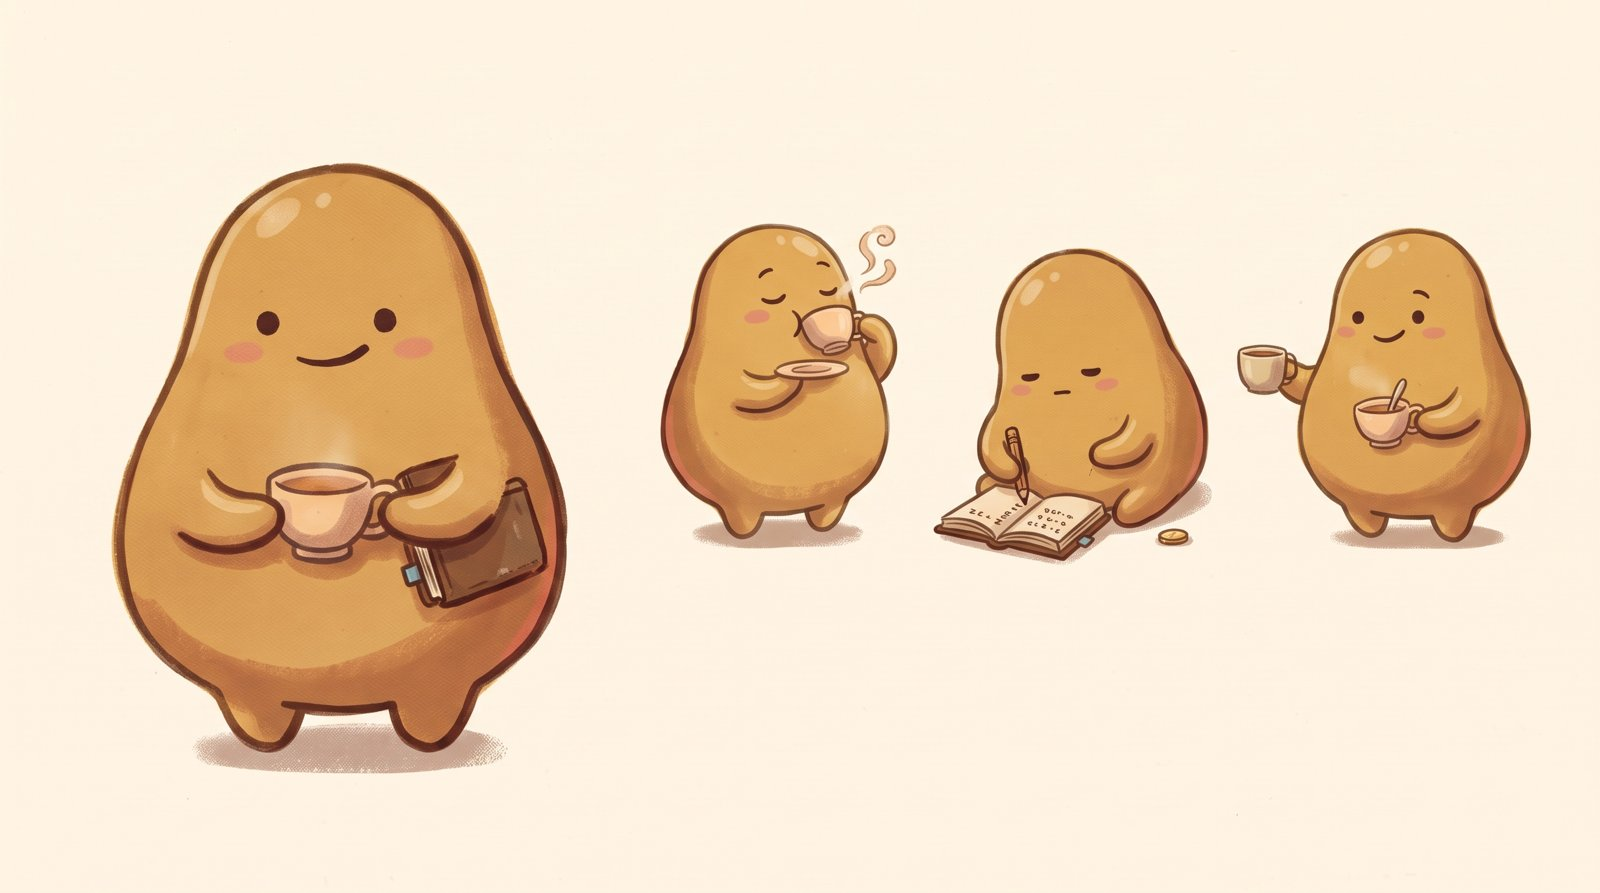
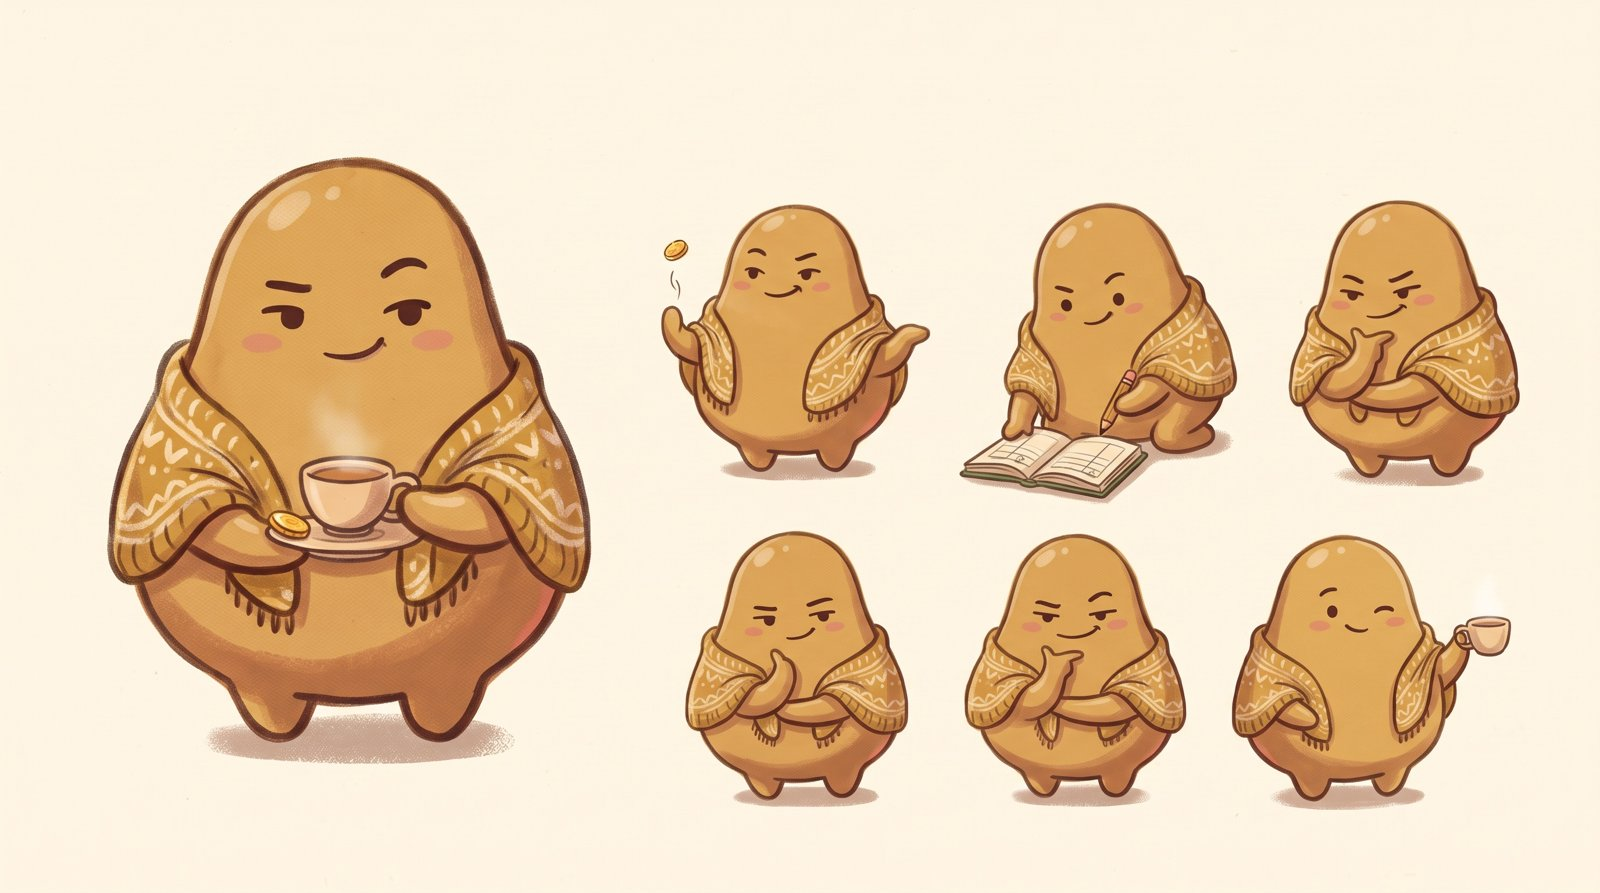
Cast: Ines with more personality, Theo with two arms, afternoon studio preferred
Claude-Session: https://claude.ai/code/session_013ka3w6JBUeEVjTQYpDR1yA

Changed region(s): [[0.4062, 0.2116, 0.9688, 0.9071], [0.0625, 0.1512, 0.375, 0.8768]]

diff --git a/design/studio/cast/CAST.md b/design/studio/cast/CAST.md
@@ -6,13 +6,15 @@ No pronouns, as the vision asks.
 
 | | Mika · Design | Noor · Research | Theo · Data | Ines · Strategy | Bo · Engineering |
 |---|---|---|---|---|---|
-| Shape | Tall, wobbly teardrop, ink blue | Perfectly round, terracotta, round glasses | Small, neat, upright, sage | Wide, grounded pear, gold ochre | Chunky soft loaf, butter yellow, half-lidded eyes |
-| Personality | Quick, playful, restless; always doodling | Curious, careful, warm; a source for every claim | Calm, precise, quiet, tidy; one number that says it worked | Confident, kind, grounded; who pays and why now | Chill, unbothered, dependable; boring, correct, shipped |
-| Prop | Stubby yellow pencil and a small sketchbook | Book bristling with sticky tabs, magnifying glass | A card with one bar; tally counter on the hip | Teacup and saucer; small leather ledger | Big coffee mug; tiny tool belt; small laptop |
-| Idle | Doodles a star on its own tummy | Reads, turns a page | Squares a little stack of cards | Slow sip of tea, steam curling | Slow sip of coffee, eyes closed in bliss |
-| Working | Scribbles fast, tongue out, eraser crumbs fly | Peers through the magnifying glass | Rules one bar on graph paper | Writes neat sums, a coin beside the ledger | Types steadily |
-| Thinking | Taps the pencil on its chin, eyes up | Pushes glasses up, looks over them | Counts on its nubs | Stirs the tea, eyes half closed | Squints one eye at the screen, mug paused |
-| Signature move | Flips the sketchbook round to show the doodle | Pulls a sticky tab off and holds it up: "found it" | Holds the one card up high, small proud nod | Raises the teacup like a gentle toast | Shuts the laptop with a pat, lazy thumbs up: "shipped" |
+| Shape | Tall, wobbly teardrop, ink blue | Perfectly round, terracotta, round glasses | Small, neat, upright, sage; exactly two arms | Wide, grounded pear, gold ochre; a knitted mustard shawl, one eyebrow raised | Chunky soft loaf, butter yellow, half-lidded eyes |
+| Personality | Quick, playful, restless; always doodling | Curious, careful, warm; a source for every claim | Calm, precise, quiet, tidy; one number that says it worked | Witty, quietly confident deal-maker; warm; who pays and why now | Chill, unbothered, dependable; boring, correct, shipped |
+| Prop | Stubby yellow pencil and a small sketchbook | Book bristling with sticky tabs, magnifying glass | A card with one bar; tally counter on the hip | Teacup and saucer; a gold coin always at hand; ledger | Big coffee mug; tiny tool belt; small laptop |
+| Idle | Doodles a star on its own tummy | Reads, turns a page | Squares a little stack of cards | Flips the gold coin with a little smirk | Slow sip of coffee, eyes closed in bliss |
+| Working | Scribbles fast, tongue out, eraser crumbs fly | Peers through the magnifying glass | Rules one bar on graph paper | Points at the ledger with a pencil, sure of it | Types steadily |
+| Thinking | Taps the pencil on its chin, eyes up | Pushes glasses up, looks over them | Counts on its nubs | Chin on one hand, eyes narrowed, sly smile | Squints one eye at the screen, mug paused |
+| Signature move | Flips the sketchbook round to show the doodle | Pulls a sticky tab off and holds it up: "found it" | Holds the one card up high, small proud nod | A slow knowing wink, teacup raised in a toast | Shuts the laptop with a pat, lazy thumbs up: "shipped" |
 | When she speaks | Leans in fast, pencil ready | Peers over the glasses, nods slowly | Goes very still, listening | Sets the cup down, warm smile | Opens one eye, then the other |
 
 Every character also breathes at its own pace and blinks at its own rhythm; whoever speaks, the others glance at.
+
+Vincent, 14 Nov: the afternoon studio (coffee machine on the left) is the preferred room. Ines got more personality; Theo always has two arms.
